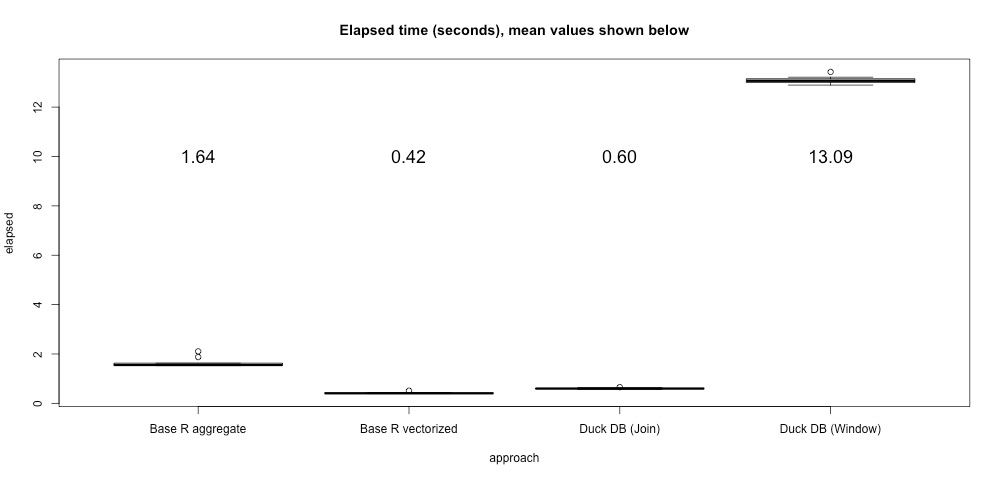
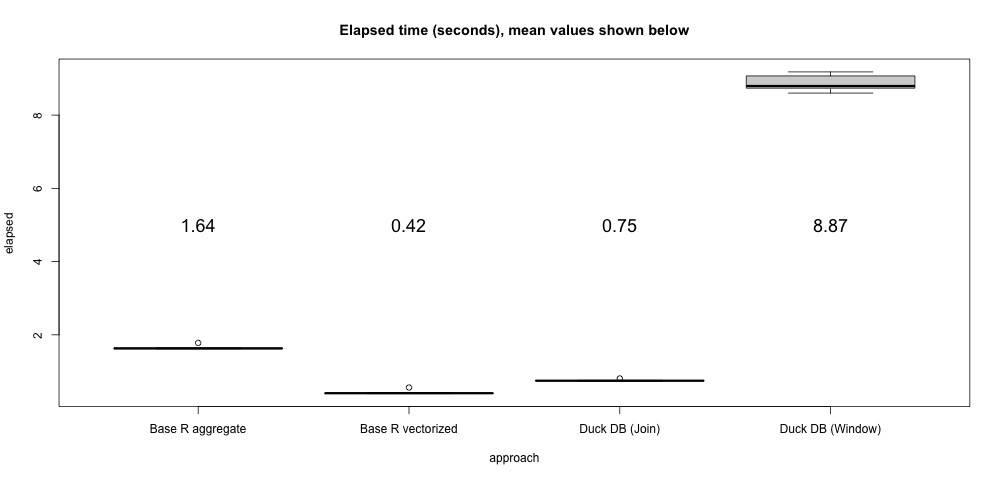
Introduction, more images and measurements.

diff --git a/_posts/2021-10-05-windowing.md b/_posts/2021-10-05-windowing.md
@@ -7,18 +7,90 @@ excerpt_separator: <!--more-->
 
 ---
 
-_TLDR: DuckDB, a free and Open-Source analytical data management system, uses state-of-the art windowing for high performance._
+_TLDR: DuckDB, a free and Open-Source analytical data management system, has a state-of-the-art window computation engine._
+
+Window functions (those using the `OVER` clause) are important tools for analysing ordered data,
+but they can be slow if not implemented carefully.
+In this post, we will take a look at how DuckDB implements windowing.
 
 <!--more-->
 
+## Beyond Sets
+
+The original relational model as developed by Codd in the 1970s treated relations as *unordered sets* of tuples.
+While this was nice for theoretical computer science work,
+it ignored the way humans think using physical analogies (the "embodied brain" model from neuroscience).
+In particular, humans naturally order data to help them understand it and engage with it.
+To help with this, SQL uses the `SELECT` clause for horizontal layout and the `ORDER BY` clause for vertical layout.
+
+Still, the orderings that humans put on data are often more than neurological crutches.
+For example, time places a natural ordering on measurements,
+and wide swings in those measurements can themselves be important data,
+or they may indicate that the data needs to be cleaned by smoothing.
+Trends may be present or relative changes may be more important for analysis than raw values.
+To help answer such questions, SQL introduced *analytic* (or *window*) functions in 2003.
+
+### Window Functions
+
+Windowing breaks a relation up into independent *partitions*, *orders* those partitions,
+and then defines [various functions](/docs/sql/window_functions) that can be computed for each row.
+These functions include all aggregate functions (such as `SUM` and `AVG`)
+as well as some window-specific functions (such as `RANK()` and `NTH_VALUE(<expression>, <N>)` ).
+
+Some window functions depend only on the partition boundary and the ordering,
+but a few (including all the aggregates) also use a *frame*.
+Frames are specified as a number of rows on either side (*preceding* or *following* the *current row*).
+The distance can either be specified as a number of *rows* or a *range* of values
+using the partition's ordering value and a distance.
+
+<img src="/images/blog/windowing/framing.png" alt="The Window Computation Environment" title="Figure 1: The Window Computation Environment" style="max-width:70%;align:middle"/>
+
+Let's look at an example of a window function query:
+
+```sql
+SELECT "Plant", "Date",
+    AVG("KWh") OVER (
+        PARTITION BY "Plant"
+        ORDER BY "Date" ASC
+        RANGE BETWEEN INTERVAL 3 DAYS PRECEDING
+                  AND INTERVAL 3 DAYS FOLLOWING)
+        AS "KWh 7-day Moving Average"
+FROM "Generation History"
+ORDER BY 1, 2
+```
+
+This query computes the seven day moving average of the energy generated by each power plant on each day.
+It partitions the data by `Plant` (to keep the different power plants' data separate),
+orders each plant's partition by `Date` (to put the energy measurements next to each other),
+and uses a `RANGE` frame of three days on either side of each day for the `AVG`
+(to handle any missing days).
+
+The `OVER` clause is the way that SQL specifies that a function is to be computed in a window.
+You can request multiple different `OVER` clauses in the same `SELECT`, and each will be computed separately.
+Often, however, you want to use the same window for multiple functions,
+and you can do this by using a `WINDOW` clause to define a *named* window:
+
+```sql
+SELECT "Plant", "Date", AVG("KWh") OVER seven AS "KWh 7-day Moving Average"
+FROM "Generation History"
+WINDOW seven AS (
+    PARTITION BY "Plant"
+    ORDER BY "Date" ASC
+    RANGE BETWEEN INTERVAL 3 DAYS PRECEDING
+              AND INTERVAL 3 DAYS FOLLOWING)
+ORDER BY 1, 2
+```
+
 ## Under the Feathers
 
-That is a long list of functionality, so lets have a look at how it gets implemented in DuckDB.
+That is a long list of complicated functionality!
+Making it all work relatively quickly has many pieces,
+so lets have a look at how they all get implemented in DuckDB.
 
 ### Pipeline Breaking
 
 The first thing to notice is that windowing is a "pipeline breaker".
-That is, the Window operator has to read all of its inputs before it can start computing a function.
+That is, the `Window` operator has to read all of its inputs before it can start computing a function.
 This means that if there is some other way to compute something,
 it may well be faster to use a different technique.
 
@@ -29,9 +101,9 @@ It is tempting to use the `RANK()` window function with a reverse sort for this 
 SELECT entity, value
 FROM (
     SELECT entity, value,
-        RANK() OVER (PARTITION BY entity ORDER BY date DESC) AS rank
+        RANK() OVER (PARTITION BY entity ORDER BY date DESC) AS r
     FROM table) t
-WHERE rank = 1
+WHERE r = 1
 ```
 
 but this requires materialising the entire table, partitioning it, sorting the partitions,
@@ -49,11 +121,11 @@ WHERE table.entity = dates.entity
 This query requires two scans of the table, but the only materialised data is the filtering table
 (which is probably much smaller than the original table), and there is no sorting at all.
 This showed up [in a user's blog](https://bwlewis.github.io/duckdb_and_r/last/last.html)
-and we found that the second query was about 20 times faster:
+and we found that the second query was over 20 times faster:
 
 <img src="/images/blog/windowing/last-in-group.jpg" alt="Window takes 13 seconds, Join takes half a second" title="Last in Group Performance Comparison" style="max-width:70%"/>
 
-Of course most analytic tasks that use windowing *do* require using the operator,
+Of course most analytic tasks that use windowing *do* require using the `Window` operator,
 and DuckDB uses a collection of modern techniques to make the performance as fast as possible.
 
 ### Partitioning and Sorting
@@ -61,18 +133,25 @@ and DuckDB uses a collection of modern techniques to make the performance as fas
 At one time, windowing was implemented by sorting on both the partition and the ordering fields.
 This is resource intensive, both because the entire relation must be sorted,
 and because sorting is `O(N log N)` in the size of the relation.
-To reduce resource consumption, we use the hash partitioning scheme from
-[Efficient Processing of Window Functions in Analytical SQL Queries](http://www.vldb.org/pvldb/vol8/p1058-leis.pdf). This breaks the partitions up into 1024 chunks using hashing.
+Fortunately, there are faster ways to implement this step.
+
+To reduce resource consumption, DuckDB uses the hash partitioning scheme from Leis et al.'s
+[*Efficient Processing of Window Functions in Analytical SQL Queries*](http://www.vldb.org/pvldb/vol8/p1058-leis.pdf)
+and breaks the partitions up into 1024 chunks using hashing.
 The chunks still need to be sorted on all the fields because there may be hash collisions,
 but each partition can now be 1024 times smaller, which reduces the runtime significantly.
 Moreover, the partitions can easily be extracted and processed in parallel.
 
 Sorting in DuckDB recently got a [big performance boost](/2021/08/27/external-sorting)
 along with the ability to work on partitions that were larger than memory.
-This functionality has been also added to the Window operator,
-resulting in improvements in the last-in-group example:
+This functionality has been also added to the `Window` operator,
+resulting in a 33% improvement in the last-in-group example:
 
 <img src="/images/blog/windowing/last-in-group-sort.jpg" alt="Window takes X seconds, Join takes half a second" title="Last in Group Sorting Performance Comparison" style="max-width:70%"/>
+
+Even though you can request multiple window functions,
+DuckDB will collect functions that use the same partitioning and ordering
+and share the layout of the data between those functions.
 
 ### Aggregation
 
@@ -85,26 +164,32 @@ so over the years several approaches have been taken to improve performance.
 
 Before explaining how DuckDB implements windowed aggregation,
 we need to take a short detour through how regular aggregates are implemented.
-Aggregate "functions" are implemented using a set of three or more operations:
-* Initialize - Creates a state that will be updated. For `SUM`, this is `NULL`.
-* Update - Updates the state with a new value. For `SUM`, this adds the value to the state.
-* Finalize - Produces the final aggregate value from the state. For `SUM`, this just copies the value.
-* Combine - Combines two states into a single state. This is optional, but when present it allows the aggregate to be computed in parallel. For `SUM`, this produces a new state with the sum of the two input values.
+Aggregate "functions" are implemented using a three required operations and one optional operation:
+* *Initialize* - Creates a state that will be updated.
+For `SUM`, this is the running total, starting at `NULL` (because a `SUM` of zero items is `NULL`, not zero.)
+* *Update* - Updates the state with a new value. For `SUM`, this adds the value to the state.
+* *Finalize* - Produces the final aggregate value from the state.
+For `SUM`, this just copies the running total.
+* *Combine* - Combines two states into a single state.
+This is optional, but when present it allows the aggregate to be computed in parallel.
+For `SUM`, this produces a new state with the sum of the two input values.
 
-The simplest way to compute a windowed aggregate is to *initialize* a state,
+The simplest way to compute a windowed aggregate value is to *initialize* a state,
 *update* the state with all the values in the window frame,
-and then use *finalize* to produce the result of the aggregate.
+and then use *finalize* to produce the value of the windowed aggregate.
 This naïve algorithm will always work, but it is quite inefficient.
+For example, a running total will re-add all the values from the start of the partition
+for each aggregate, which has a run time of `O(N^2)`.
+
 To improve on this, some databases add additional
 ["moving state" operations](https://www.postgresql.org/docs/14/sql-createaggregate.html)
 that can add or remove individual values incrementally.
 This is an improvement, but it can only be used for certain aggregates (for example, it doesn't work for `MIN`).
-Moreover, if the frame boundaries move around a lot, it can degenerate badly to `O(N^2)` run time.
+Moreover, if the frame boundaries move around a lot, it can still degenerate to an `O(N^2)` run time.
 
 #### Segment Tree Aggregation
 
-Instead, DuckDB uses the *segment tree* approach, again from
-[Efficient Processing of Window Functions in Analytical SQL Queries](http://www.vldb.org/pvldb/vol8/p1058-leis.pdf).
+Instead, DuckDB uses the *segment tree* approach from Leis et al. above.
 This works by building a tree on top of the entire partition with the aggregated values at the bottom.
 Values are combined into states at nodes above them in the tree until there is a single root:
 
@@ -118,10 +203,10 @@ This can be used for all combinable aggregates.
 #### General Windowed Aggregation
 
 The biggest drawback of segment trees is the need to manage a potentially large number of intermediate states.
-For the simple states used for standard aggregates,
+For the simple states used for standard aggregates like `SUM`,
 this is not a problem because the states are small,
 the tree keeps the number of states logarithmically low,
-and the state used to compute each value is cheap.
+and the state used to compute each value is also cheap.
 
 For some aggregates, however, the state is not small.
 Typically these are so-called *holistic* aggregates,
@@ -130,11 +215,45 @@ Examples of such aggregates are `mode` and `quantile`,
 where each state may have to contain a copy of *all* the values seen so far.
 For large frames, this can be quite expensive.
 
-To solve this problem, we use the approach from
-[Incremental Computation of Common Windowed Holistic Aggregates](http://www.vldb.org/pvldb/vol9/p1221-wesley.pdf),
+To solve this problem, we use the approach from Wesley and Xu's
+[*Incremental Computation of Common Windowed Holistic Aggregates*](http://www.vldb.org/pvldb/vol9/p1221-wesley.pdf),
 which generalises segment trees to aggregate-specific data structures.
-The aggregate can define a fifth *window* operation,
-which will be given the bottom of the tree and the bounds of the current and previous frame.
+The aggregate can define a fifth optional *window* operation,
+which will be passed the bottom of the tree and the bounds of the current and previous frame.
 The aggregate can then create an appropriate data structure for its implementation.
 For example, the `mode` function maintains a hash table of counts that it can update efficiently,
 and the `quantile` function maintains a partially sorted list of frame indexes.
+
+### Ordered Set Aggregates
+
+Window functions are often closely associated with some special
+["ordered set aggregates"](https://www.postgresql.org/docs/current/functions-aggregate.html#FUNCTIONS-ORDEREDSET-TABLE)
+defined by the SQL standard.
+Some databases implement these functions using the `Window` operator,
+but this is rather inefficient as sorting the data (an `O(N log N)` operation) is not actually required.
+
+Instead, DuckDB has efficient implementations of `quantile_cont`, `quantile_disc`,
+and `mode` that use hash tables or selection, which have run time of `O(N)`.
+Moreover, the `quantile` functions can take an array of quantile values,
+which further increases performance by sharing the partially ordered results
+among the different quantile values.
+
+Because these are combinable aggregates, they can themselves be used in a windowing context,
+so the moving average example above can be modified to produce a moving inter-quartile range:
+
+```sql
+SELECT "Plant", "Date",
+    QUANTILE_CONT("KWh", [0.25, 0.5, 0.75]) OVER seven AS "KWh 7-day Moving IQR"
+FROM "Generation History"
+WINDOW seven AS (
+    PARTITION BY "Plant"
+    ORDER BY "Date" ASC
+    RANGE BETWEEN INTERVAL 3 DAYS PRECEDING
+              AND INTERVAL 3 DAYS FOLLOWING)
+ORDER BY 1, 2
+```
+
+Moving quantiles are
+[more robust to anomalies](https://blogs.sas.com/content/iml/2021/05/26/running-median-smoother.html),
+which makes them a valuable tool for data series analysis.
+And they are built into DuckDB's window operator.
